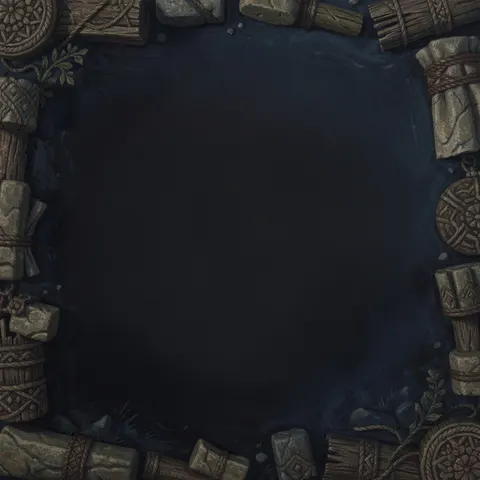
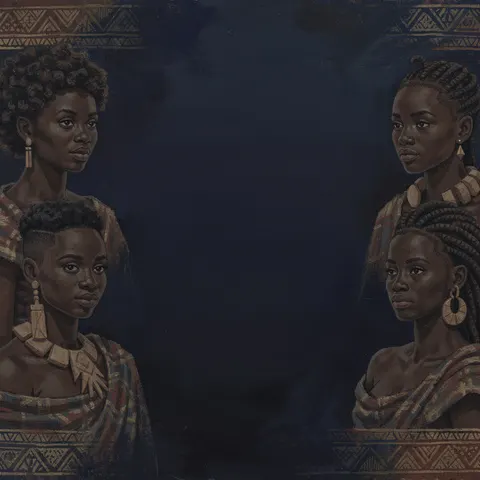
Chantier 1 — « personnes » dans tous les presets, sans exception
Alignement sur la spec de TROIS-CHANTIERS.md : le cœur du produit (peaux,
traits, cheveux) est déclaré par les 30 presets — y compris plat, carte,
fond-citation et paysage, que j'avais dispensés (DECISIONS.md D10 amendée
par ce commit). decor reste réservé aux presets à environnement, tenues
subordonnées au rôle. Test remplacé : chaque preset DOIT porter
personnes. 4 vignettes régénérées. 20/20.

Changed region(s): [[0.0, 0.0, 1.0, 1.0], [0.3125, 0.9062, 0.6562, 1.0]]

diff --git a/services/studio/presets.ts b/services/studio/presets.ts
@@ -178,7 +178,7 @@ const LISTE: Preset[] = [
     cadre: "45-degree view of an African dish, wooden table, close appetizing framing.",
     format: "1:1",
     champs: [{ type: "phrase", label: "Ta scène, en une phrase", exemples: ["Le plat fumant posé sur la table en bois du maquis"] }, { type: "texte", cle: "plat", label: "Le plat", exemples: ["thiéboudienne", "attiéké poisson braisé"] }, { type: "lieu" }],
-    ancrage: [],
+    ancrage: ["personnes"],
     reference: "produit",
     vignette: { de: "#6e2b12", vers: "#e8973a" },
   }),
@@ -277,7 +277,7 @@ const LISTE: Preset[] = [
     format: "1:1",
     zoneTexte: "centre",
     champs: [{ type: "phrase", label: "Ta scène, en une phrase", exemples: ["Un dégradé profond bleu nuit, motif discret en bordure"] }, { type: "personnages", max: 1 }],
-    ancrage: [],
+    ancrage: ["personnes"],
     vignette: { de: "#1c1a2e", vers: "#5b4a8a" },
   }),
   P({
@@ -372,7 +372,7 @@ const LISTE: Preset[] = [
     cadre: "Top-down map view, inked routes and annotations, a compass rose, worn folds in the paper.",
     format: "4:5",
     champs: [{ type: "phrase", label: "Ta scène, en une phrase", exemples: ["Les routes des caravanes entre Agadez et Tombouctou", "Le fleuve et ses comptoirs"] }, { type: "annee" }, { type: "lieu" }],
-    ancrage: [],
+    ancrage: ["personnes"],
     vignette: { de: "#5c4a2e", vers: "#d9c9a3" },
   }),
 
@@ -428,7 +428,7 @@ const LISTE: Preset[] = [
     cadre: "Ultra-wide view across savanna, river, desert or forest, layered depth to the horizon.",
     format: "16:9",
     champs: [{ type: "phrase", label: "Ta scène, en une phrase", exemples: ["Le fleuve au couchant, les pirogues rentrent"] }, { type: "lieu" }],
-    ancrage: ["decor"],
+    ancrage: ["personnes", "decor"],
     vignette: { de: "#2e4a2b", vers: "#e8b45c" },
   }),
 ];

diff --git a/scripts/studio-suite.ts b/scripts/studio-suite.ts
@@ -234,13 +234,11 @@ test("les tenues sont subordonnées au rôle dans le bloc ancrage (affirmatif)",
   const annee1973 = compilerPrompt({ preset: "nuit-archive", saisie: { ...saisieDemo("nuit-archive"), annee: 1973 }, format: "9:16" });
   assert.ok(annee1973.includes("olive-green fatigues and berets"), "l'uniforme vient du pack d'époque");
 });
-test("chaque preset déclare son ancrage ; plat, carte et fond n'en prennent aucun", () => {
+test("« personnes » est dans TOUS les presets, sans exception — c'est le cœur du produit", () => {
   for (const id of PRESET_IDS) {
-    assert.ok(Array.isArray(PRESETS[id].ancrage), `${id} : ancrage déclaré`);
-  }
-  for (const id of ["plat-restaurant", "carte-ancienne", "fond-citation"] as const) {
+    assert.ok(PRESETS[id].ancrage.includes("personnes"), `${id} : personnes déclaré`);
     const p = compilerPrompt({ preset: id, saisie: saisieDemo(id), format: PRESETS[id].format });
-    assert.ok(!p.includes("African features") && !p.includes("Civilians wear"), `${id} : sans ancrage`);
+    assert.ok(/African features|coily hair/.test(p), `${id} : bloc personnes présent`);
   }
 });
 
